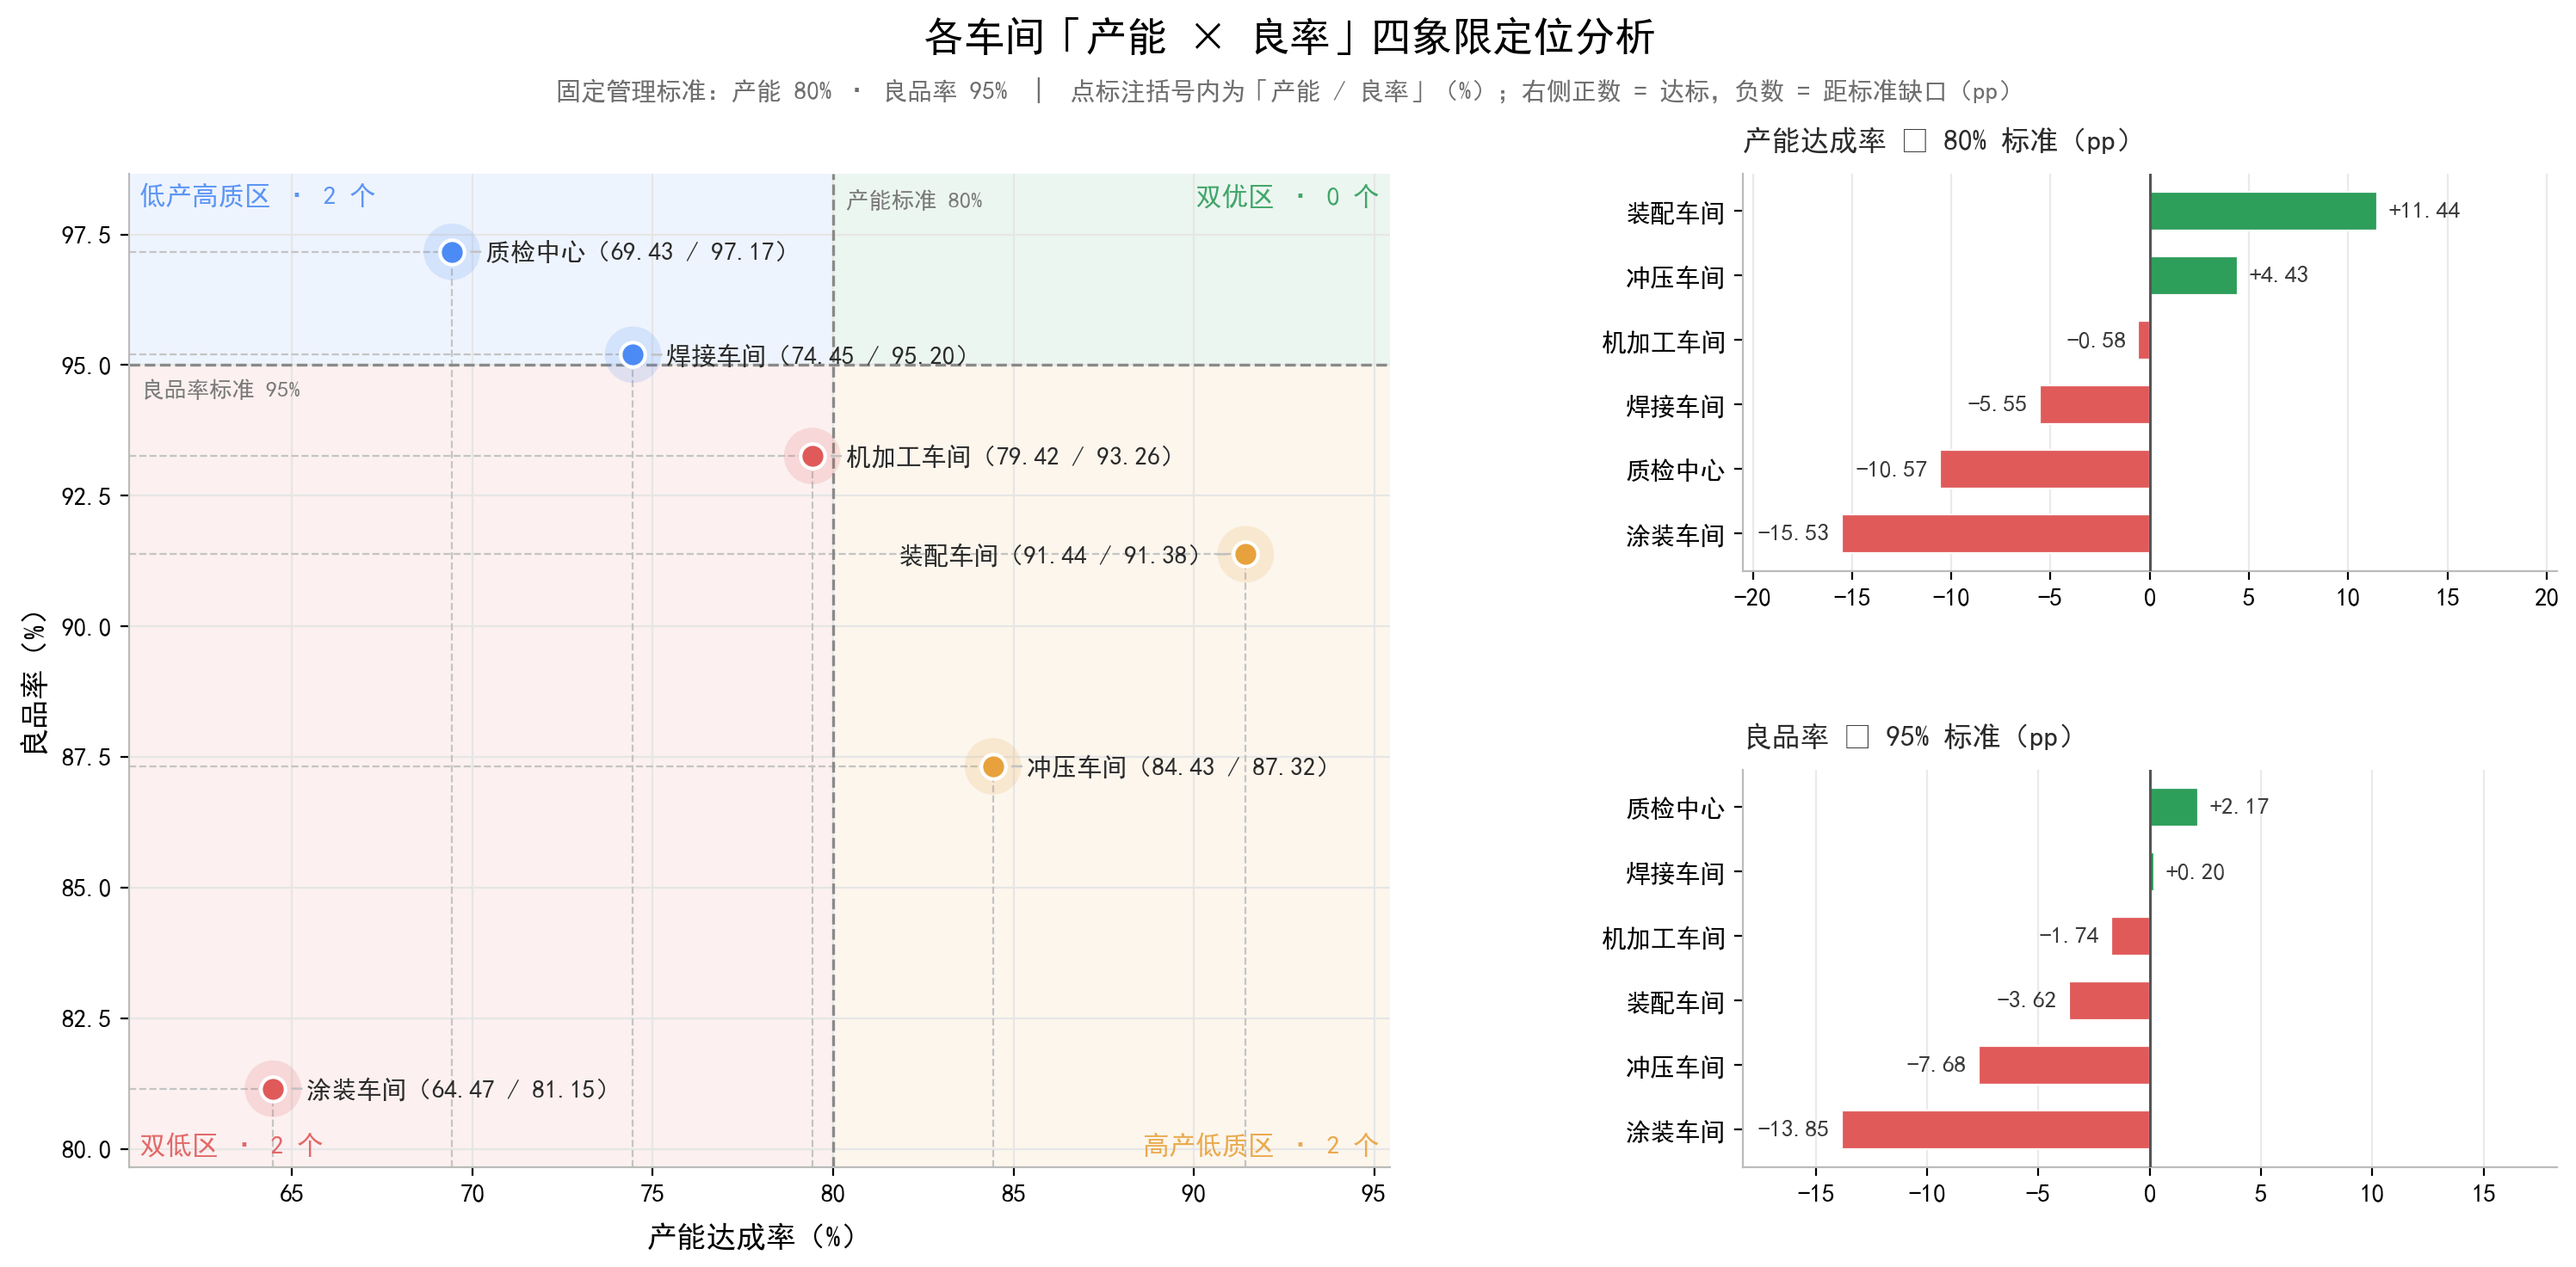
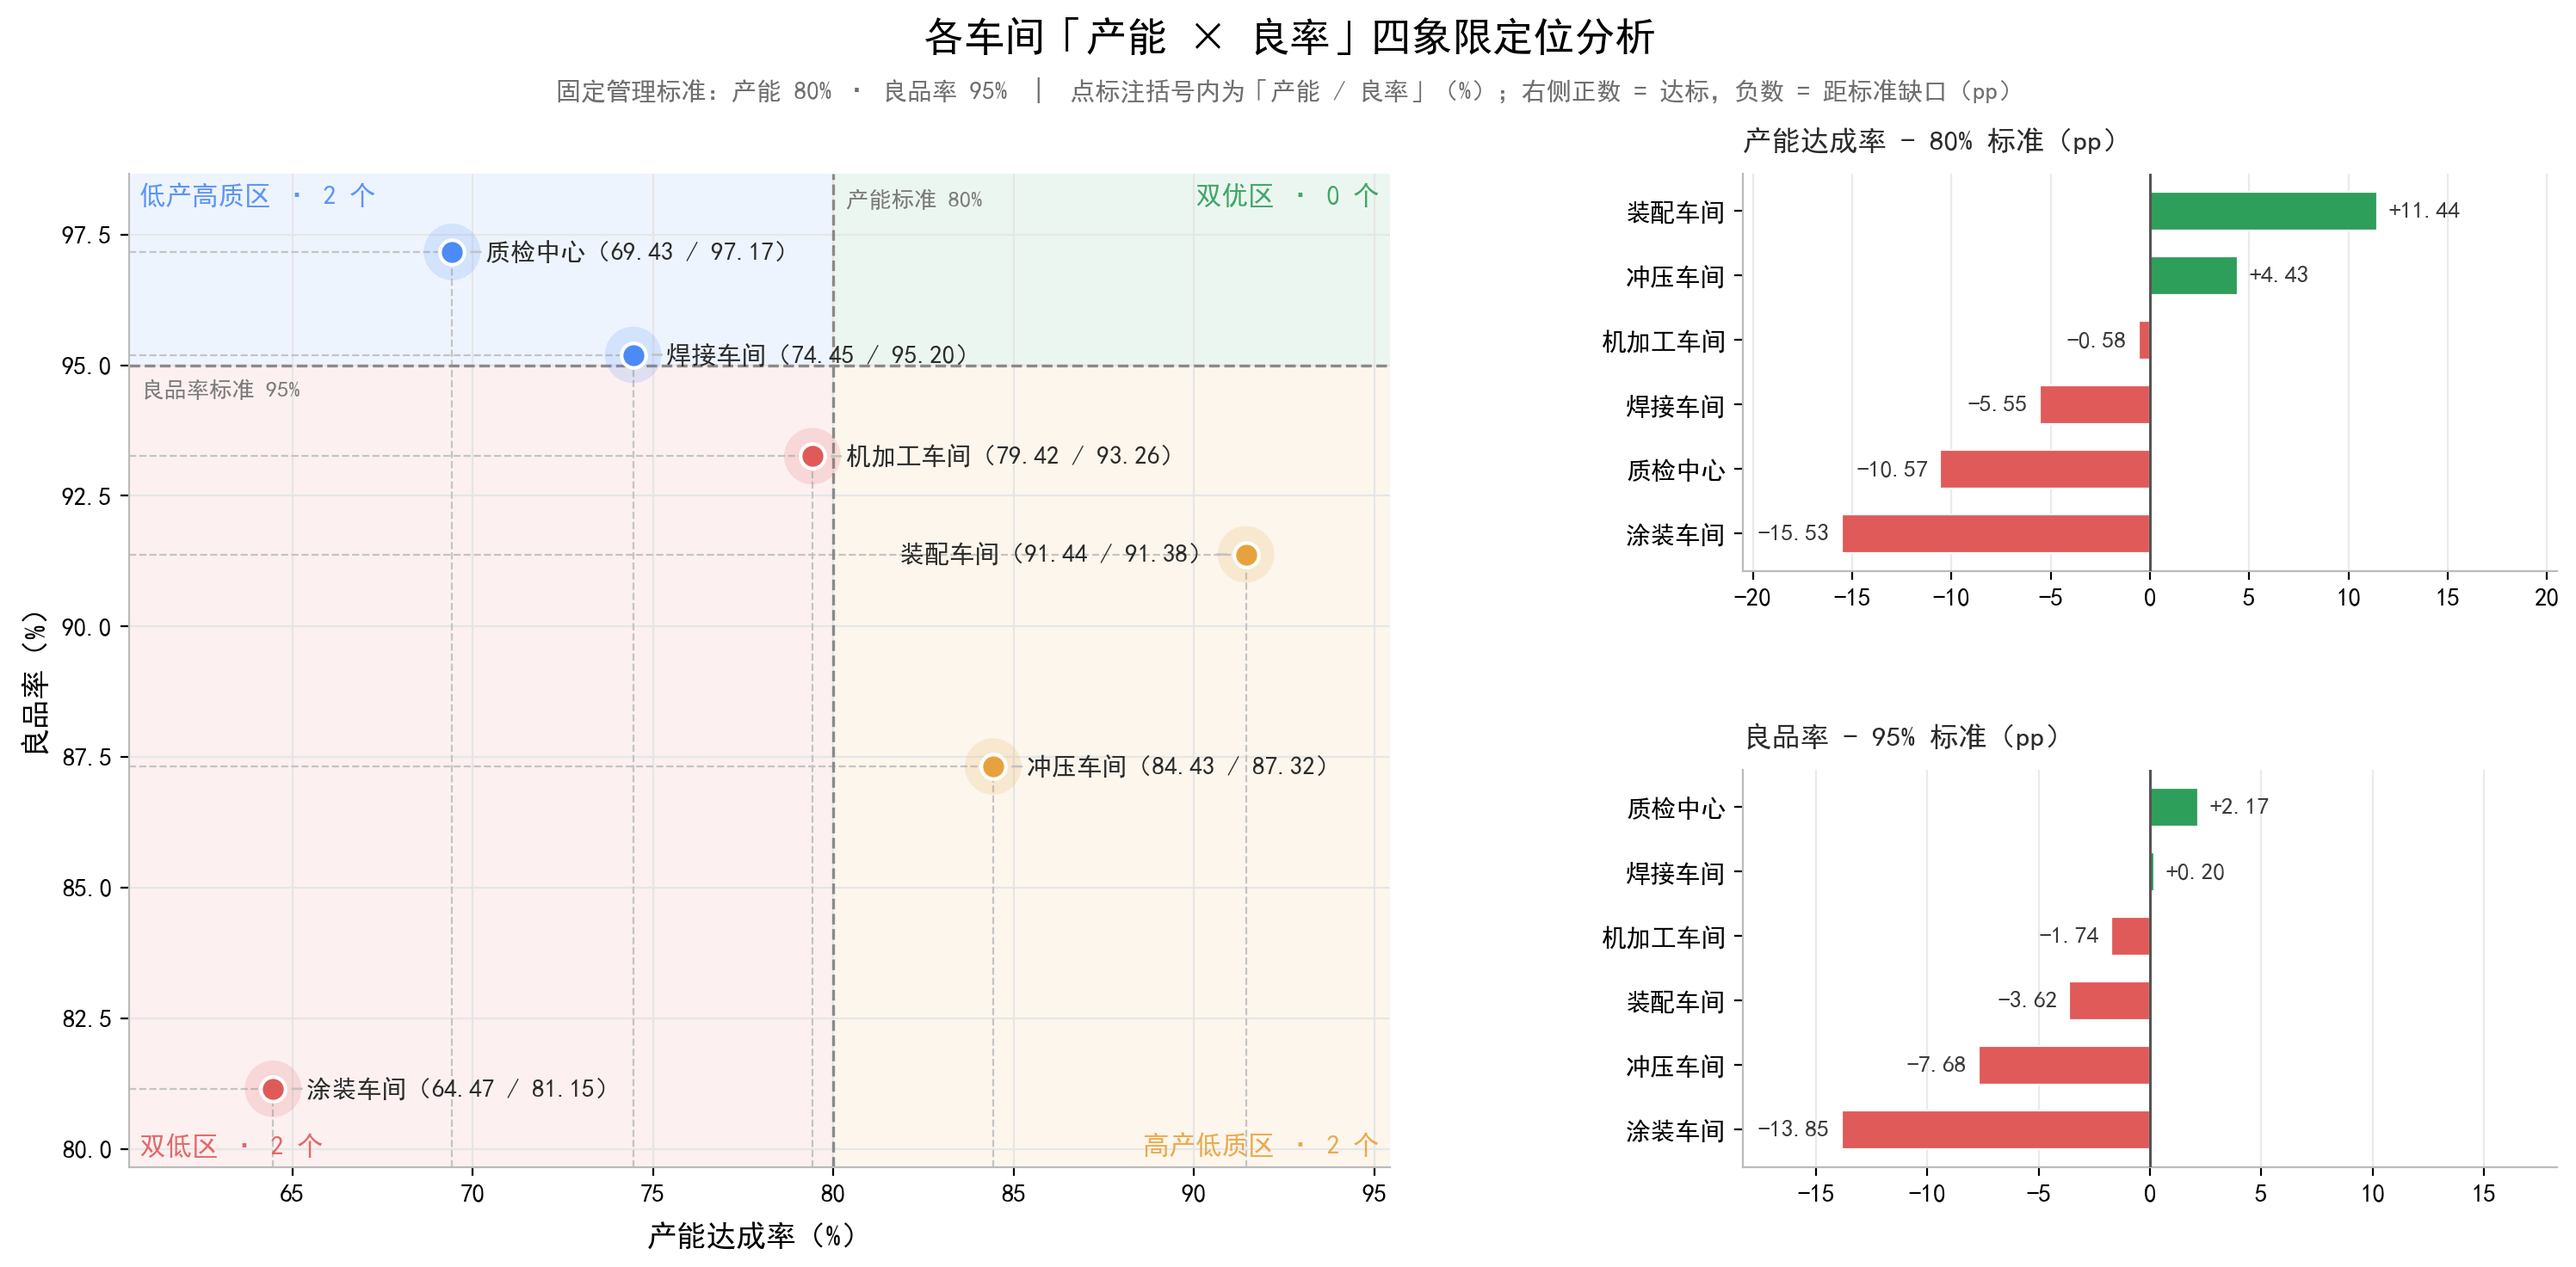
fix: 修复四象限图标题 U+2212 显示成方框（SimHei 缺字形），改用 ASCII 连字符；离线渲染脚本对齐 notebook 字体

diff --git a/scripts/render_quadrant_chart.py b/scripts/render_quadrant_chart.py
@@ -26,7 +26,10 @@ import matplotlib
 matplotlib.use('Agg')                      # 无窗口环境（终端/CI）必须用 Agg
 import matplotlib.pyplot as plt
 
-plt.rcParams['font.sans-serif'] = ['Microsoft YaHei', 'SimHei', 'Arial Unicode MS', 'DejaVu Sans']
+# 字体必须与 notebook 第 1 个 cell 保持一致：
+# 若这里换成 Microsoft YaHei 之类字形更全的字体，会把 notebook 里
+# “字体缺字形导致显示成方框”的问题掩盖掉，失去离线预览的意义。
+plt.rcParams['font.sans-serif'] = ['SimHei', 'Arial Unicode MS', 'DejaVu Sans']
 plt.rcParams['axes.unicode_minus'] = False
 
 CAP_STD, QUAL_STD = 80.0, 95.0

diff --git a/README.md b/README.md
@@ -157,3 +157,10 @@ python scripts\generate_incremental_data.py 2026-07-01 2026-09-10
 4. 抽取模式忘了点「更新」
 5. TOP N 忘了设排序
 6. 计算字段漏了分母保护（`SUM(a)/NULLIF(SUM(b),0)`）
+
+### 代码层的一个坑（matplotlib 字体）
+
+**图里别用 U+2212「−」（真减号）**。notebook 用的字体是 `SimHei`（GB2312 系），**没有这个字形**，图上会显示成方框 `□`，例如标题变成"产能达成率 □ 80% 标准"。用 ASCII 连字符 `-` 即可。
+
+> 排查提示：`scripts/render_quadrant_chart.py` 刻意使用与 notebook **完全相同**的字体配置，
+> 就是为了让离线预览能暴露这类字体缺字形问题——不要把它换成字形更全的字体，那样会把问题掩盖掉。
